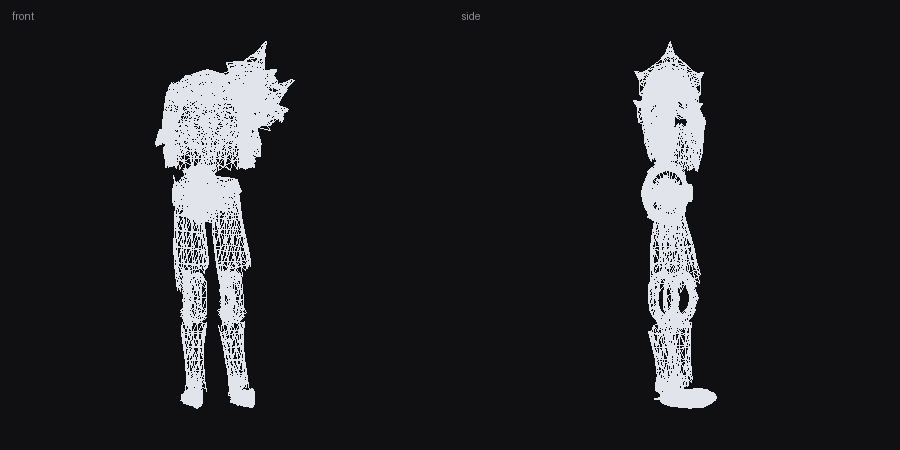
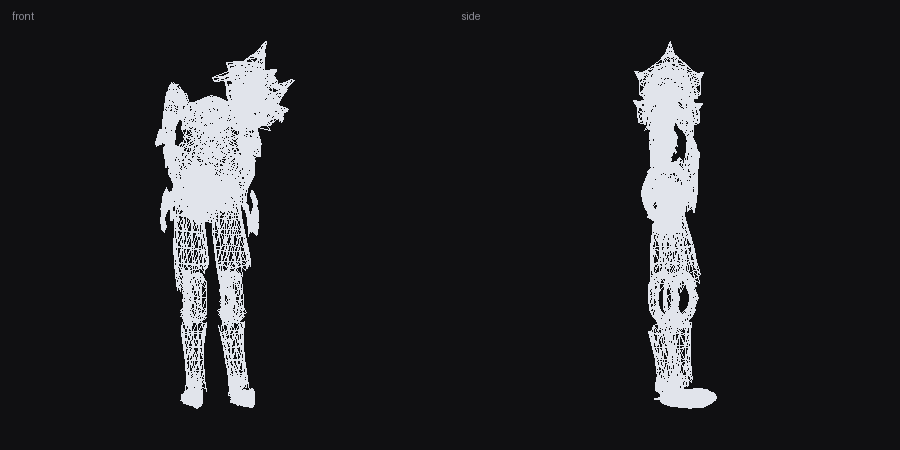
The hand needed no hand, and the cuirass was on backwards
Two things fell out of being able to assemble the figure.

**The hands.** They were left out because no hand bodypart in the
masters has a single shape for this writer to replace, and I took that
to mean there was no donor. The premise was wrong: a donor supplies
the node, the material and the texture reference, and where the piece
goes is decided by the bone. Any single-shape file whose own transform
is identity will serve, and the vanilla ankle is one. The reference is
the real hand - three shapes of it, read out of `b_n_..._skins.nif`,
which turns out to be the Chest bodypart and both Hand bodyparts in
one file. That also explains an earlier bad measurement: reading only
its first shape made the "chest" come out seven units across.

**The cuirass was on backwards.** Fitting now happens in world space
against the vanilla part hung on its own skeleton node, then goes back
into the bodypart's frame - up means up for both sides and no axis has
to be ranked or forced. Which made the remaining turn worth measuring
properly: Morrowind's toes reach 9.7 units past the ankle node along
+Y against 7.2 the other way, so the game faces +Y; the model's foot
runs +Z from its ankle and glTF is Y-up; and the sides are opposite,
the game's left hand sitting at x -16.7 while the model's is at +4.26.
The chest had x,z,-y, which points a breastplate at its own spine.

The chest now sits at 69.9 to 111.7 against the naked torso's 71.4 to
110.1, and the hand at 63.0 to 78.9 against 63.6 to 78.3.

Changed region(s): [[0.1867, 0.1556, 0.3111, 0.5289], [0.7156, 0.2489, 0.8089, 0.4667], [0.1556, 0.4356, 0.2178, 0.4978]]

diff --git a/tools/scripts/build_armour_set.py b/tools/scripts/build_armour_set.py
@@ -133,9 +133,24 @@ ROOT = os.path.abspath(os.path.join(HERE, "..", ".."))
 # units across, and a naked body has no clavicle at all. Those two fall back to
 # an armour donor, and to the median scale of the slots that were measured.
 BODY = "meshes/b/b_n_dark elf_m_%s.nif"
+
+# From the model's axes into the game's, measured both ways rather than assumed.
+# Morrowind's toes reach 9.7 units past the ankle node along +Y and 7.2 the
+# other way, so the game faces +Y; the model's foot runs +Z from its ankle, and
+# glTF is Y-up, so the model faces +Z with up along +Y. And the sides are
+# opposite: the game's left hand sits at x -16.7 to -12.1 while the model's is
+# at +4.26, so the model's left is the game's -X.
+#
+# The chest was on backwards and mirrored until this was measured - it had
+# x,z,-y, which points the breastplate at the character's own spine.
+MODEL_TO_GAME = "-x,z,y"
 SLOTS = {
     # slot: (donor, reference or None to reuse the donor, forced axes, trim)
-    "chest": ("meshes/a/a_adamantium_cuirass_c.nif", None, "x,z,-y", "z+"),
+    # Fitted in world space against the naked torso, hung on the Chest node -
+    # see BONE below. The donor is only a container now; its skirt no longer
+    # decides anything.
+    "chest": ("meshes/a/a_adamantium_cuirass_c.nif",
+              "meshes/b/b_n_dark elf_m_skins.nif", MODEL_TO_GAME, None),
     "groin": (BODY % "groin", None, None, None),
     "clavicle": ("meshes/a/a_daedric_pauldron_cl.nif", None, None, None),
     "upperarm": (BODY % "upper arm", None, None, None),
@@ -146,8 +161,26 @@ SLOTS = {
     # the naked foot carries two shapes and this writer replaces one, so the
     # boot supplies the container while the foot still supplies the fitting
     "foot": ("meshes/a/a_daedric_boots_f.nif", BODY % "foot", None, None),
+    # The hand had no donor for a long time and the reason was a
+    # misunderstanding: **the donor does not have to be a hand.** It supplies
+    # the node, the material and the texture reference; where the piece goes is
+    # decided by the bone. So any single-shape file whose own shape transform is
+    # identity will do, and the vanilla ankle is one. The reference is the real
+    # hand, three shapes of it, out of the file that also holds the torso.
+    "hand": (BODY % "ankle", BODY % "skins", MODEL_TO_GAME, None),
 }
 MEASURED = {s for s, (d, *_) in SLOTS.items() if d.startswith("meshes/b/")}
+
+# Slots fitted in world space instead: the skeleton node they hang on, and
+# which shapes of the reference file to use. **This is the better way round**
+# and the limbs would be no worse for it - up means up on both sides, so no
+# axis has to be ranked or forced. It is used where the old way could not
+# reach: the only chest donor in the game wears a skirt, and the naked torso
+# turned out to be hiding in the hands file.
+IN_WORLD = {
+    "chest": ("Chest", "Tri Chest"),
+    "hand": ("Left Hand", "Left Hand"),
+}
 
 # **The chest is not like the others, and the reason is structural.** Every
 # cuirass in the three masters is a *skinned* mesh: it carries the whole Bip01
@@ -171,7 +204,7 @@ MEASURED = {s for s, (d, *_) in SLOTS.items() if d.startswith("meshes/b/")}
 SOURCE = {"chest": "chest_world", "groin": "groin", "clavicle": "clavicle_l",
           "upperarm": "upperarm_l", "forearm": "forearm_l",
           "upperleg": "upperleg_l", "knee": "knee_l", "ankle": "ankle_l",
-          "foot": "foot_l"}
+          "foot": "foot_l", "hand": "hand_l_world"}
 
 NIFTEST = r"D:/Program Files/OpenMW 0.51.0/niftest.exe"
 
@@ -223,6 +256,9 @@ def main():
             call += ["--axes=" + turn]
         if cut:
             call += ["--trim", cut]
+        if slot in IN_WORLD:
+            bone, which = IN_WORLD[slot]
+            call += ["--bone", bone, "--shape", which]
         if fallback:
             call += ["--fixed-scale", str(fallback)]
         if not args.write:
@@ -267,7 +303,8 @@ def main():
               "Forearm bodypart spans 8.1 units where its Ankle spans 24.3."
               % (min(scales.values()), max(scales.values()), median))
     print("\n%d of %d pieces built and accepted." % (built, len(SLOTS)))
-    print("Hand is not in the list: no hand bodypart has a single shape.")
+    print("The hand rides a donor of its own: any single-shape file with an "
+          "identity transform, the bone decides the rest.")
     if not args.write:
         print("Dry run. Pass --write to build.")
     return 0

diff --git a/tools/scripts/nif_write.py b/tools/scripts/nif_write.py
@@ -352,6 +352,15 @@ def main():
                     help="force the turn, e.g. -z,y,x - where the piece's X, "
                          "Y and Z each land. For a slot whose vanilla part is "
                          "too cubic to rank by length, so the rig has to say.")
+    ap.add_argument("--bone", metavar="NODE",
+                    help="fit in world space against the reference hung on "
+                         "this skeleton node, then write back into the "
+                         "bodypart's own frame. The honest way round: up means "
+                         "up for both sides, and no axis has to be guessed.")
+    ap.add_argument("--shape", metavar="TEXT",
+                    help="use only the reference's shapes whose name contains "
+                         "this - `b_n_..._skins.nif` is the Chest bodypart and "
+                         "both Hand bodyparts in one file")
     ap.add_argument("--trim", metavar="AXIS",
                     help="keep only one side of the reference, cut at its own "
                          "narrowest cross-section, e.g. z- - for a donor that "
@@ -370,7 +379,28 @@ def main():
     print(f"incoming {len(verts)} vertices, {len(tris)} triangles")
     print(f"donor    {len(donor_verts)} vertices")
 
-    if args.reference:
+    if args.bone:
+        from skeleton import SKELETON, all_shapes, place, unplace
+        from skeleton import world as skeleton_frames
+        with open(_resolve(SKELETON), "rb") as f:
+            frame = skeleton_frames(f.read())[args.bone]
+        with open(_resolve(args.reference), "rb") as f:
+            parts = all_shapes(f.read(), only=args.shape)
+        if not parts:
+            raise SystemExit(f"no shape named {args.shape} in {args.reference}")
+        ref = np.vstack([place(v, frame) for v, _t, _n in parts])
+        turn = axes(args.axes) if args.axes else np.eye(3)
+        ours = verts @ turn.T
+        target = ref.max(0) - ref.min(0)
+        scale = (target / np.maximum(ours.max(0) - ours.min(0), 1e-9)
+                 * args.clearance)
+        ours = ours * scale
+        ours += (ref.max(0) + ref.min(0)) / 2.0 - (ours.max(0) + ours.min(0)) / 2.0
+        verts = unplace(ours, frame)
+        print(f"aligned  on {args.bone}, {len(parts)} reference shape(s), "
+              f"scale {np.mean(scale):.2f}, world height "
+              f"{ref[:, 2].min():.1f} to {ref[:, 2].max():.1f}")
+    elif args.reference:
         ref, _ruv, _rt = read_mesh(args.reference)
         if args.trim:
             whole = len(ref)

diff --git a/tools/scripts/skeleton.py b/tools/scripts/skeleton.py
@@ -178,6 +178,42 @@ def shape(blob):
     return np.eye(3), np.zeros(3), 1.0
 
 
+def all_shapes(blob, only=None):
+    """Every NiTriShape in a file, each already through its own transform.
+
+    Multi-shape files are the normal case for the parts this cannot otherwise
+    reach. `b_n_..._skins.nif` is the Dark Elf's Chest bodypart *and* his Hand
+    bodypart at once - seven shapes, three per hand and one torso - which is why
+    reading only the first one made the chest measure seven units across.
+    """
+    out = []
+    shapes = [at for kind, at in blocks(blob) if kind == "NiTriShape"]
+    datas = [at for kind, at in blocks(blob) if kind == "NiTriShapeData"]
+    for at, data in zip(shapes, datas):
+        length, = struct.unpack_from("<i", blob, at)
+        name = blob[at + 4:at + 4 + length].decode("latin-1")
+        if only and only.lower() not in name.lower():
+            continue
+        p = at + 4 + length + 8 + 2
+        move = np.frombuffer(blob, np.float32, 3, p).astype(np.float64)
+        turn = np.array(np.frombuffer(blob, np.float32, 9, p + 12)
+                        .reshape(3, 3), np.float64)
+        size, = struct.unpack_from("<f", blob, p + 48)
+        verts, _uv, tris = parse_trishape(blob[data - len("NiTriShapeData"):])
+        out.append(((verts * size) @ turn.T + move, tris, name))
+    return out
+
+
+def unplace(verts, frame):
+    """Back out of world space into the bodypart's own frame.
+
+    The inverse of `place`, and the step that lets a piece be fitted where
+    everyone can see what up means and then written where the engine wants it.
+    """
+    r, p, s = frame
+    return ((verts - p) @ r) / s
+
+
 def place(verts, frame):
     """A part's vertices where the skeleton puts them."""
     r, p, s = frame

diff --git a/tools/scripts/bodyparts.py b/tools/scripts/bodyparts.py
@@ -38,12 +38,14 @@ PARTS = {
     "knee": ("zenar_knee", "Knee"),
     "ankle": ("zenar_ankle", "Ankle"),
     "foot": ("zenar_foot", "Foot"),
+    "hand": ("zenar_hand", "Hand"),
 }
 
-# Hand is absent, and deliberately: no hand bodypart in the masters has a single
-# shape, so nothing can be built for it yet. Leaving the gauntlets pointing at
-# their own bodypart is the right failure - the hands stay Daedric rather than
-# vanishing.
+# Hand was absent for a long time on a false premise: that a donor had to be a
+# hand bodypart, and none of the twelve in the masters has a single shape for
+# this writer to replace. The donor only supplies the node, the material and the
+# texture reference - the bone decides placement - so any single-shape file with
+# an identity transform serves, and the vanilla ankle does.
 
 # An armour record names its slots as LeftPauldron, RightUpperArm and so on.
 # Strip the side and this is what remains.
@@ -52,7 +54,7 @@ SLOT_OF = {
     "pauldron": "clavicle", "clavicle": "clavicle",
     "upperarm": "upperarm", "forearm": "forearm",
     "upperleg": "upperleg", "knee": "knee",
-    "ankle": "ankle", "foot": "foot",
+    "ankle": "ankle", "foot": "foot", "hand": "hand", "wrist": "hand",
 }
 
 # The armour this replaces. Daedric becomes Zenaric throughout the conversion,
